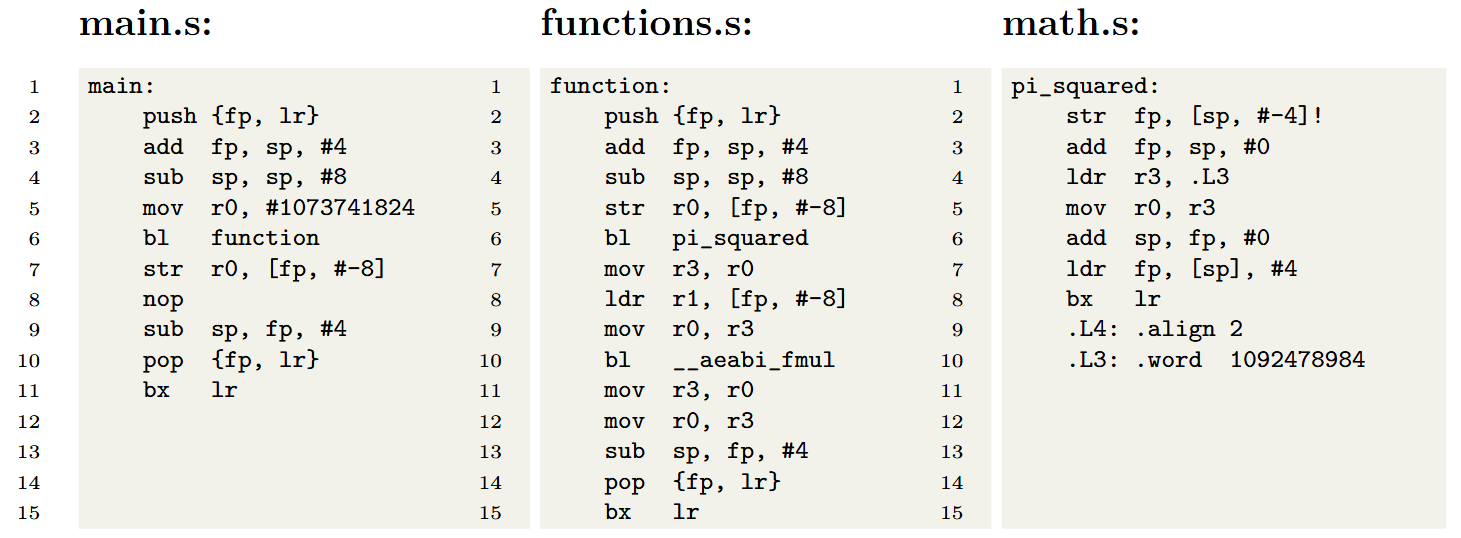
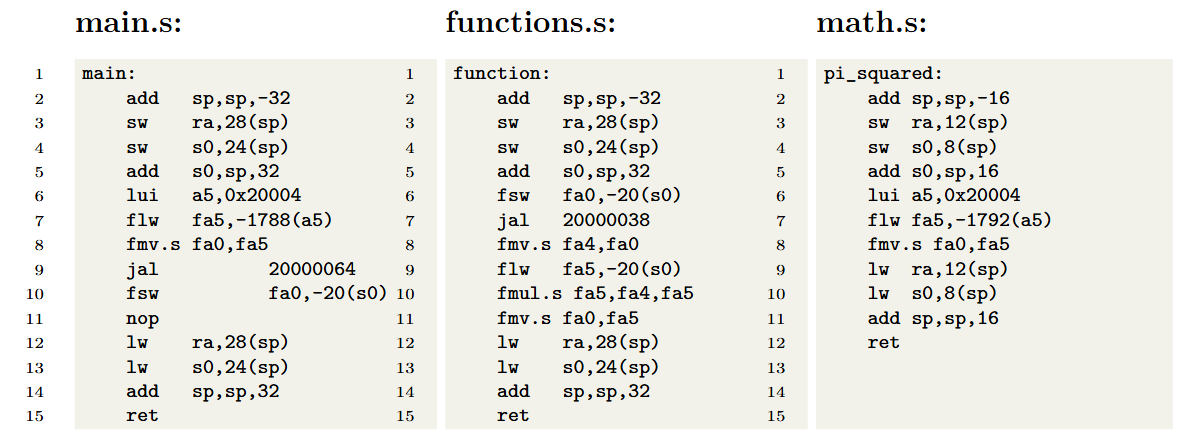
Lecture04 - Ready for primetime.

diff --git a/lectures/lecture04_GPIO_and_C_intro.md b/lectures/lecture04_GPIO_and_C_intro.md
@@ -1,12 +1,5 @@
 # Introduction to GPIO and C
 
-**Links:**
-[Reference Manual](https://www.wch-ic.com/downloads/CH32FV2x_V3xRM_PDF.html)
-
-**Text and exercises in the Workbook (Arbetsboken)**
-
-**Things that are in the Workbook that should possibly be in this lecture**
-
 <hr>
 
 So far, we have focused on the *core* of our processor, the *Qingke V4F*, and how to move data between memory and registers. This would be quite pointless unless the processor was connected to the outside world somehow. Today we will start introducing how to communicate with off-chip devices using the GPIO ports.
@@ -223,6 +216,8 @@ The program consists of three C files: `main.c`, `functions.c`, and `math.c`. Wi
 
 Normally, when compiling a program from inside an *Integrated Development Environment* (IDE), like CodeLite or Visual Studio Code, we simply press the "build" button and do not have to care much about what actually happens. In this section, however, we will go through the actual compilation steps, since it can be very useful to know how this works when things go wrong. 
 
+> **Note:** The following assumes a system where gcc is installed and on the path, which is not the case on your machines. You do not have to run these commands, they are just here to show how it would work.
+
 #### Preprocessor
 The first step in compiling a program is to run the *preprocessor* on all `.c` files. We can invoke the preprocessor alone on the command-line like this: 
 
@@ -259,9 +254,7 @@ gcc -S math.i
 
 The resulting assembly files are: 
 
-> ⚠ **TODO:** Replace with RISCV example
-
-![](../images/c_figure_3_3.png)
+![](../images/c_figure_3_3_riscv.png)
 
 You are not expected to understand this assembly code, but we will note a few important things about them. First, we can compile, for instance, the `main.i` file into assembly code *independently* of the other files. To create the assembly code for `main.i`, the compiler needs to know that *there exists* a function called `function`, that it returns a `float`, and that it takes a `float` as parameter, but it does not need to know what that function *does*. 
 
@@ -278,9 +271,7 @@ as -c functions.s
 as -c math.s
 ```
 
-An object file is a binary file[^7], containing the machine code that will eventually run on the processor. Note, however, that this file is not an executable program. We still don't know the final addresses of variables and functions. The `bl function` command in `main.s`, for instance, has been assembled into the appropriate machine code for the `bl` instruction, but the *address* it should jump to is not yet available. 
-
-> ⚠ **TODO:** Replace with RISCV example
+An object file is a binary file[^7], containing the machine code that will eventually run on the processor. Note, however, that this file is not an executable program. We still don't know the final addresses of variables and functions. The `call function` command in `main.s`, for instance, has been assembled into the appropriate machine code for the `call` instruction, but the *address* it should jump to is not yet available. 
 
 
 [^7]: The actual format of this file depends on the compiler. `gcc` will produce files on the ELF format.
@@ -297,4 +288,10 @@ The linker's main job is to arrange the code in memory, and turn all *symbols* (
 If you had run all of these commands on your host computer, with the appropriate gcc toolchain, the output would be an executable file that would run on your operating system (although it won't actually *do* anything visible). 
 
 If you are cross-compiling for another machine (like the MD307) and have used the appropriate gcc toolchain, this last linking stage will not quite work. You will also have to supply some flags to inform the compiler that it should not expect to find a *runtime* library (which we will talk about later), and you would need to supply a *linker script* that tells the linker in what part of memory to place the functions and variables and where to start running the code.
+
+**Links:**
+[CH32V307 Reference Manual](https://www.wch-ic.com/downloads/CH32FV2x_V3xRM_PDF.html)
+
+**Text and exercises in the Workbook (Arbetsboken)**: 76-78
+
 
